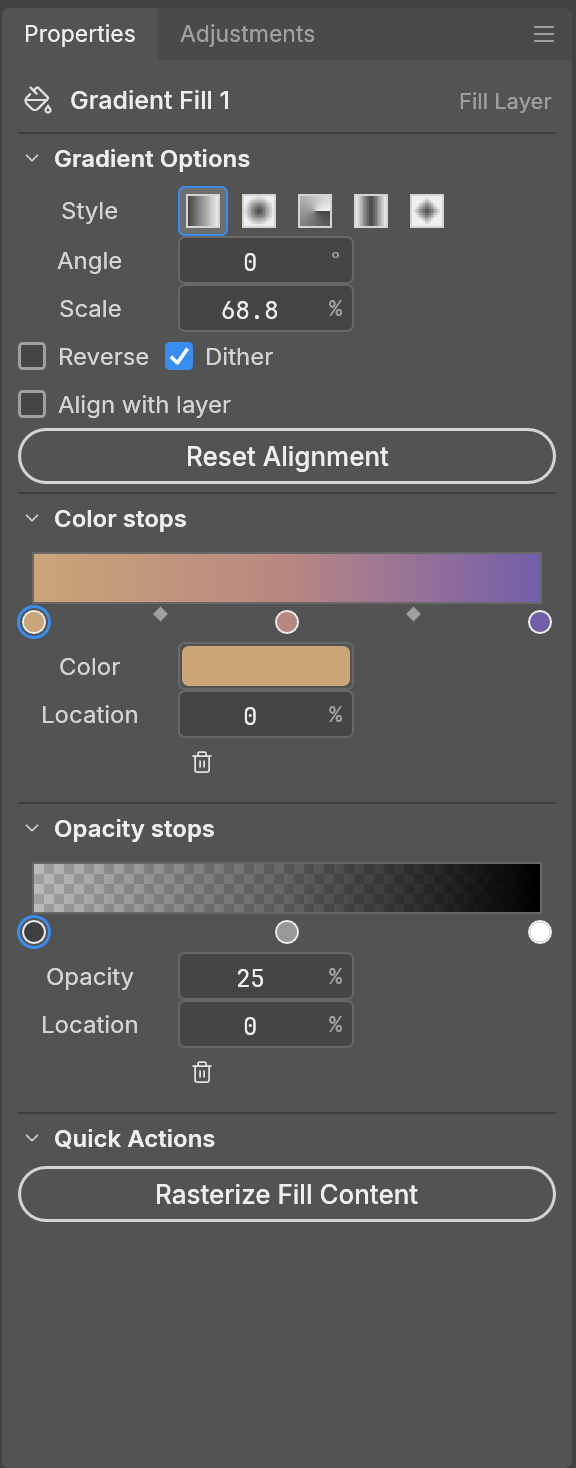
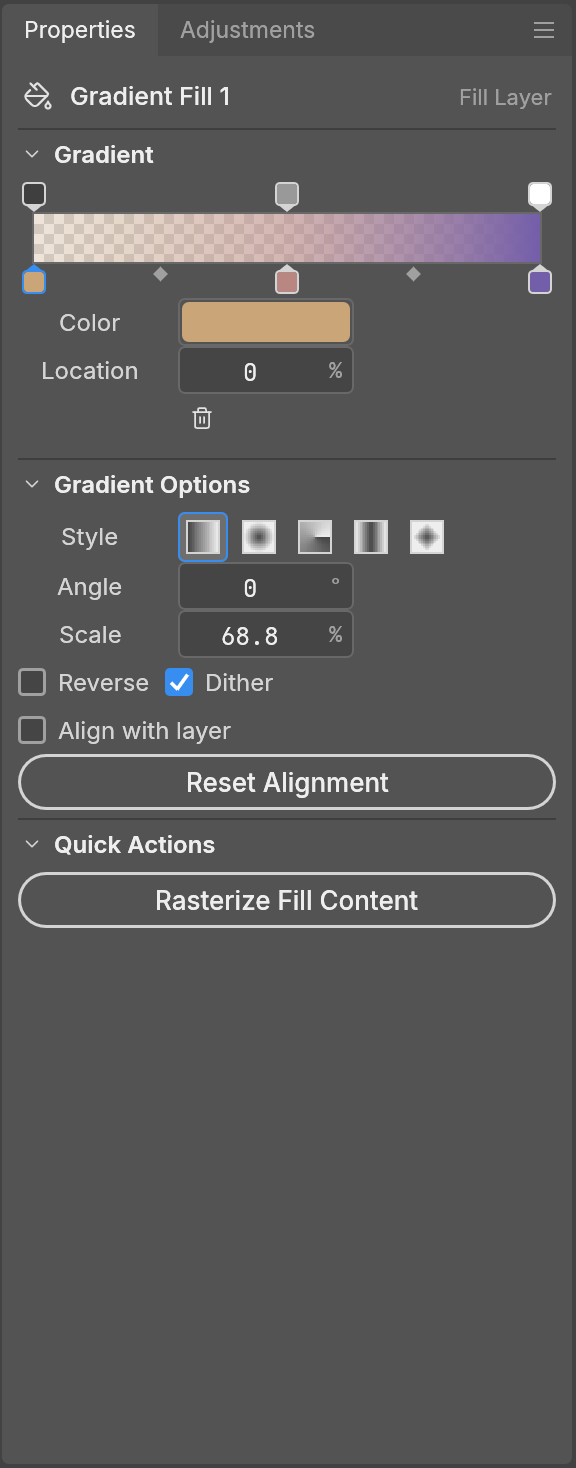
docs: show shared gradient controls in English

diff --git a/README.md b/README.md
@@ -2,8 +2,8 @@
 
 English PhotoCraft captures for https://github.com/storytold/photocraft/pull/2859.
 
-Properties images: UI d151676f, baseline main 5c039af5.
-Editor images: UI d149e219baf9077bb3059dc460518c342c570887.
+Properties and Editor images: UI 4415a3dbc81a3dc7d72f774fd08c9d4086ca2f28; Properties baseline main 5c039af5.
+Editor images: UI 4415a3dbc81a3dc7d72f774fd08c9d4086ca2f28.
 
 Captured with the native offscreen snapshot example, a synthetic 640 x 480 document and isolated English UI preferences. No personal photos or proprietary editor assets.
 
@@ -15,7 +15,7 @@ Captured with the native offscreen snapshot example, a synthetic 640 x 480 docum
 - after-en-2x-panel.png: Properties at 200% DPI.
 - editor-after-panel-en.png: compact Gradient Editor with opacity above and color below.
 - editor-after-opacity-panel-en.png: Editor selected opacity point (60% at 50%).
-- editor-after-en.png: full application with compact Editor and separate Properties controls.
+- editor-after-en.png: full application with the shared compact layout in Editor and Properties.
 - editor-after-2x-panel-en.png: compact Editor at 200% DPI.
 
 This separate fork branch documents the contribution and contains no application source changes.
